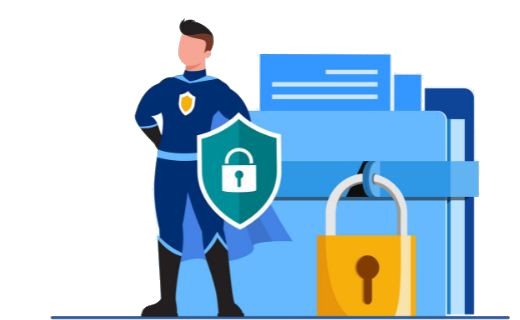
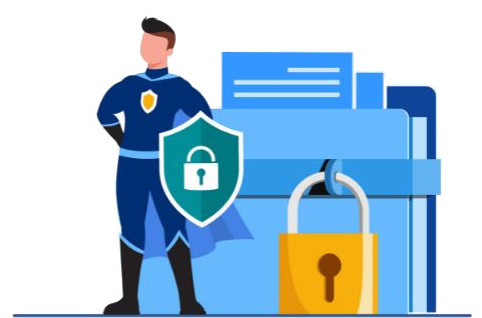
update graphism

Changed region(s): [[0.1867, 0.0566, 0.9336, 0.9906], [0.0, 0.9623, 0.1245, 1.0], [0.9647, 0.9906, 0.9959, 1.0]]

diff --git a/templates/login/login_password.html b/templates/login/login_password.html
@@ -21,7 +21,7 @@
                             <div class="col-sm-6 offset-sm-3">
                                 <div id = "id_loading">
                                     <div class="card">
-                                        <img src="/static/img/7.png" class="card-img-top" alt="...">
+                                        <img src="/static/img/12.png" class="card-img-top" alt="...">
                                         <div class="card-body">
                                             <div class="text-center">
                                                 <h5 class="card-title">{{_('Connect to your cloud portfolio')}}</h5>
@@ -34,21 +34,16 @@
                                         <form id="id_token" action="/user/" method="POST">
                                             <input id="input_token" hidden  name="token" >
                                         </form>
-                                        <form id="id_failed" action="/app/login" method="GET">
-                                        </form>
-                                
+                                                                     
                             </div>
-                            <div id="space"></div>
                         </div>
                     </div> 
                 </div>
             </div>
-        </div>
-       
+        </div>   
     </div>
 
     <div id="content_desktop" class="d-none d-sm-block">
-    
         <div id="wrapper">
             <div class="d-flex flex-column" id="content-wrapper">
                 <div id="content" style="background-attachment:local;background-size:cover;background-position:50%30% ;background-repeat:no-repeat;background-image: url('/static/img/background_5.png');">
@@ -71,8 +66,7 @@
                             <div class="col-lg-6 col-xl-4 offset-lg-3 offset-xl-4">
 				                <div class="card shadow o-hidden border-0 my-5" style="color: rgb(133,135,150);">
                                     <div class="card-body p-0">
-                                        <div id = "id_loading">
-                                            <div class="p-5">
+                                            <div id="id_text" class="p-5">
                                                 <div class="text-center"><h4 class="text-dark mb-4">{{_('Sign-In')}}</h4></div>
                                                 <form class="user" action="/login" method="POST">
                                                     <div class="form-group">
@@ -91,24 +85,20 @@
 
                                                 <br><p id="id_text_1" class="text-center">{{_('or')}}</p>
                                                 <div id="id_qrcode" class="text-center">
-                                                    <a href="/login/VerifiablePresentationRequest"><img  src="{{ qrcode(url) }}"  style="width: 150px;border-radius:0px;"></a>
+                                                    <a href="/login/VerifiablePresentationRequest"><img  src="{{ qrcode(url) }}"  style="width: 250px;border-radius:0px;"></a>
                                                 </div>
                                                 <div id="id_text_2" class="text-center">
                                                         {{_('Scan and present any credential issued by Talao')}}
                                                 </div>
                                             </div>        
-                                        </div>
-                                    </div>
+                                        </div> 
                                     <div>
                                         <form id="id_token" action="/user/" method="POST">
                                             <input id="input_token" hidden name="token" >
                                         </form>
-                                        <form id="id_failed" action="/login/" method="GET">
-                                        </form>
                                     </div>
                                 </div>
                             </div>
-                            <div id="space"></div>
                        </div>
                     </div> 
                 </div>
@@ -127,23 +117,23 @@
         source.onmessage = function (event) {
             const result = JSON.parse(event.data);
             if (result.message == 'ok' & result.stream_id == '{{stream_id}}' ){
-                document.getElementById("space").innerHTML = "<br> <br> <br> <br> <br> <br> <br> <br> <br> <br> <br> <br> <br>";
+                //document.getElementById("space").innerHTML = "<br> <br> <br> <br> <br> <br> <br> <br> <br> <br> <br> <br> <br>";
                 const loading_message = '{{_("Your portfolio is loading ...")}}'
-                document.getElementById("id_loading").innerHTML = '<div  class="my-5">\
+                document.getElementById("id_text").innerHTML = '<div  class="my-5">\
                                                                         <div class="text-center">\
                                                                             <h4 class="text-dark mb-4">' + loading_message + '</h4>\
                                                                         </div>\
                                                                         <div class="text-center">\
                                                                             <div class="spinner-border"></div>\
                                                                         <div>\
-                                                                    </div>' 
+                                                                    </div>'  
                 document.getElementById("input_token").value=result.token;
                 document.getElementById("id_token").submit();
             }
             if (result.code == 'ko' & result.stream_id == '{{stream_id}}' ) {
                 console.log(result.message);
                 window.alert(result.message)
-                document.getElementById("id_failed").submit();
+                window.location.href= "/login";
                 
             }
             

diff --git a/templates/register/register_wallet_qrcode.html b/templates/register/register_wallet_qrcode.html
@@ -18,12 +18,12 @@
             <div id="id_text" class="m-5">{{_('<strong>Register</strong><br><br>Scan the QRCode bellow with your smartpĥone wallet.')}}
               <br>{{_('Present an Email Pass and fill the form with your firstname and lastname')}}.<br>
             </div>
-            <div id="id_qrcode" class="m-5"><img src="{{ qrcode(url) }}" class="w-20 h-20"></div>
+            <div id="id_qrcode" class="m-5"><img src="{{ qrcode(url) }}" style="width: 250px;border-radius:0px;"></div>
           </div>
           
           <div id="content_smartphone" class="d-block d-sm-none">
             <div class="card">
-              <img src="/static/img/7.png" class="card-img-top" alt="...">
+              <img src="/static/img/image_16.jpeg" class="card-img-top" alt="...">
               <div class="card-body">
                   <div class="text-center">
                       <h5 class="card-title">{{_('Register a portfolio')}}</h5>

diff --git a/templates/login/login_qr.html b/templates/login/login_qr.html
@@ -44,7 +44,7 @@
                 <div id="id_text" class="m-5"><strong></strong><br>
                   {{_('<br> Scan the QR Code bellow with your smartphone wallet.
                    <br>You can present any credential which has been issued by Talao.')}}</div>  
-                <div id="id_qrcode" class="m-5"><img src="{{ qrcode(url) }}" class=" w-30 h-30"></div>
+                <div id="id_qrcode" class="m-5"><img src="{{ qrcode(url) }}" style="width: 250px;border-radius:0px;"></div>
                 <div id="id_loading" class="m-5"></div>
                 <div id="id_spinner" class="m-5"></div>
               </div>

diff --git a/routes/web_wallet_test.py b/routes/web_wallet_test.py
@@ -30,6 +30,10 @@ except :
 
 
 DID_WEB = 'did:web:talao.co'
+DID_ETHR = 'did:ethr:0xee09654eedaa79429f8d216fa51a129db0f72250'
+DID_TZ2 = 'did:tz:tz2NQkPq3FFA3zGAyG8kLcWatGbeXpHMu7yk'
+DID_KEY =  'did:key:zQ3shWBnQgxUBuQB2WGd8iD22eh7nWC4PTjjTjEgYyoC3tjHk'          
+
 
 def translate(credential) : 
     credential_name = ""
@@ -71,15 +75,11 @@ def init_app(app,red, mode) :
     app.add_url_rule('/wallet/test/presentation_display',  view_func=test_presentation_display, methods = ['GET', 'POST'], defaults={'red' :red})
     app.add_url_rule('/wallet/test/presentation_stream',  view_func=presentation_stream, defaults={ 'red' : red})
 
-    global PVK, test_repo, registry_repo, DID_ETHR, DID_TZ2, DID_KEY
+    global PVK, test_repo, registry_repo
     PVK = privatekey.get_key(mode.owner_talao, 'private_key', mode)
     g = Github(mode.github)
     test_repo = g.get_repo(TEST_REPO)
     registry_repo = g.get_repo(REGISTRY_REPO)
-    DID_ETHR = helpers.ethereum_pvk_to_DID(PVK, 'ethr')
-    DID_TZ2 = helpers.ethereum_pvk_to_DID(PVK, 'tz')
-    DID_KEY = helpers.ethereum_pvk_to_DID(PVK, "key")
-    print('did:key = ', DID_KEY)
     return
 
 ######################### Credential Offer ###########
@@ -92,7 +92,6 @@ Direct access to one VC with filename passed as an argument
 
 """
 def test_direct_offer(red, mode) :
-    global DID_TZ2, DID_ETHR, DID_KEY
     try :
         VC_filename= request.args['VC']
     except :
@@ -128,6 +127,7 @@ def test_direct_offer(red, mode) :
         }
     url = mode.server + "wallet/test/wallet_credential/" + credential['id'] + urlencode({'issuer' : credential['issuer']})
     deeplink = mode.deeplink + 'app/download?' + urlencode({'uri' : url })
+    logging.info("deeplink = %s", deeplink)
     red.set(credential['id'], json.dumps(credentialOffer))
     type = credentialOffer['credentialPreview']['type'][1]
     return render_template('wallet/test/credential_offer_qr_2.html',
@@ -139,7 +139,6 @@ def test_direct_offer(red, mode) :
 
 
 def test_credentialOffer_qrcode(red, mode) :
-    global DID_ETHR, DID_TZ2, DID_KEY
     if request.method == 'GET' :   
         try :
             path = request.args['path']
@@ -283,6 +282,7 @@ def test_credentialOffer_qrcode(red, mode) :
             credentialOffer['shareLink'] = request.form['shareLink']
         url = mode.server + "wallet/test/wallet_credential/" + credential['id'] + '?' + urlencode({'issuer' : did_issuer})
         deeplink = mode.deeplink + 'app/download?' + urlencode({'uri' : url })
+        logging.info("deeplink = %s", deeplink)
         red.set(credential['id'], json.dumps(credentialOffer))
         type = credentialOffer['credentialPreview']['type'][1]
         return render_template('wallet/test/credential_offer_qr.html',
@@ -423,7 +423,6 @@ QueryBYExample = {
 pattern = QueryBYExample
 
 def test_presentationRequest_qrcode(red, mode):
-    global DID_TZ2
     if request.method == 'GET' :
         return render_template('wallet/test/credential_presentation.html', simulator='Verifier Simulator' )
 							

diff --git a/routes/web_register.py b/routes/web_register.py
@@ -22,7 +22,12 @@ from protocol import Document
 
 #PRESENTATION_DELAY = timedelta(seconds= 10*60)
 
-DID = 'did:ethr:0xee09654eedaa79429f8d216fa51a129db0f72250'
+DID_WEB = 'did:web:talao.cp'
+DID_ETHR = 'did:ethr:0xee09654eedaa79429f8d216fa51a129db0f72250'
+DID_TZ = 'did:tz:tz2NQkPq3FFA3zGAyG8kLcWatGbeXpHMu7yk'
+DID_KEY =  'did:key:zQ3shWBnQgxUBuQB2WGd8iD22eh7nWC4PTjjTjEgYyoC3tjHk'                      
+DID = DID_TZ
+
 did_selected = 'did:tz:tz2NQkPq3FFA3zGAyG8kLcWatGbeXpHMu7yk'
 
 CREDENTIAL_TOPIC = ['experience', 'training', 'recommendation', 'work', 'salary', 'vacation', 'internship', 'relocation', 'end_of_work', 'hiring']

diff --git a/routes/web_tiar.py b/routes/web_tiar.py
@@ -33,7 +33,7 @@ def tir_api(did) :
     https://ec.europa.eu/cefdigital/wiki/display/EBSIDOC/Trusted+Issuers+Registry+API
 
     """
-    if did in [DID_WEB, DID_TZ2, DID_ETHR, 'did:tz:tz2NQkPq3FFA3zGAyG8kLcWatGbeXpHMu7yk'] :
+    if did in [DID_WEB, DID_TZ2, DID_ETHR, DID_KEY] :
         logging.info('Internal TIAR / Talao')
         return jsonify({
             "issuer": {

diff --git a/routes/web_login.py b/routes/web_login.py
@@ -109,6 +109,7 @@ def login(red, mode) :
 			message = _('Sign-In')
 		url=mode.server + 'login/wallet_presentation/' + stream_id +'?' + urlencode({'issuer' : DID_TZ})
 		deeplink = mode.deeplink + 'app/download?' + urlencode({'uri' : url })
+		print("deeplink = ", deeplink)
 		# end code for qrcode
 		return render_template('./login/login_password.html',
 								url=url,
